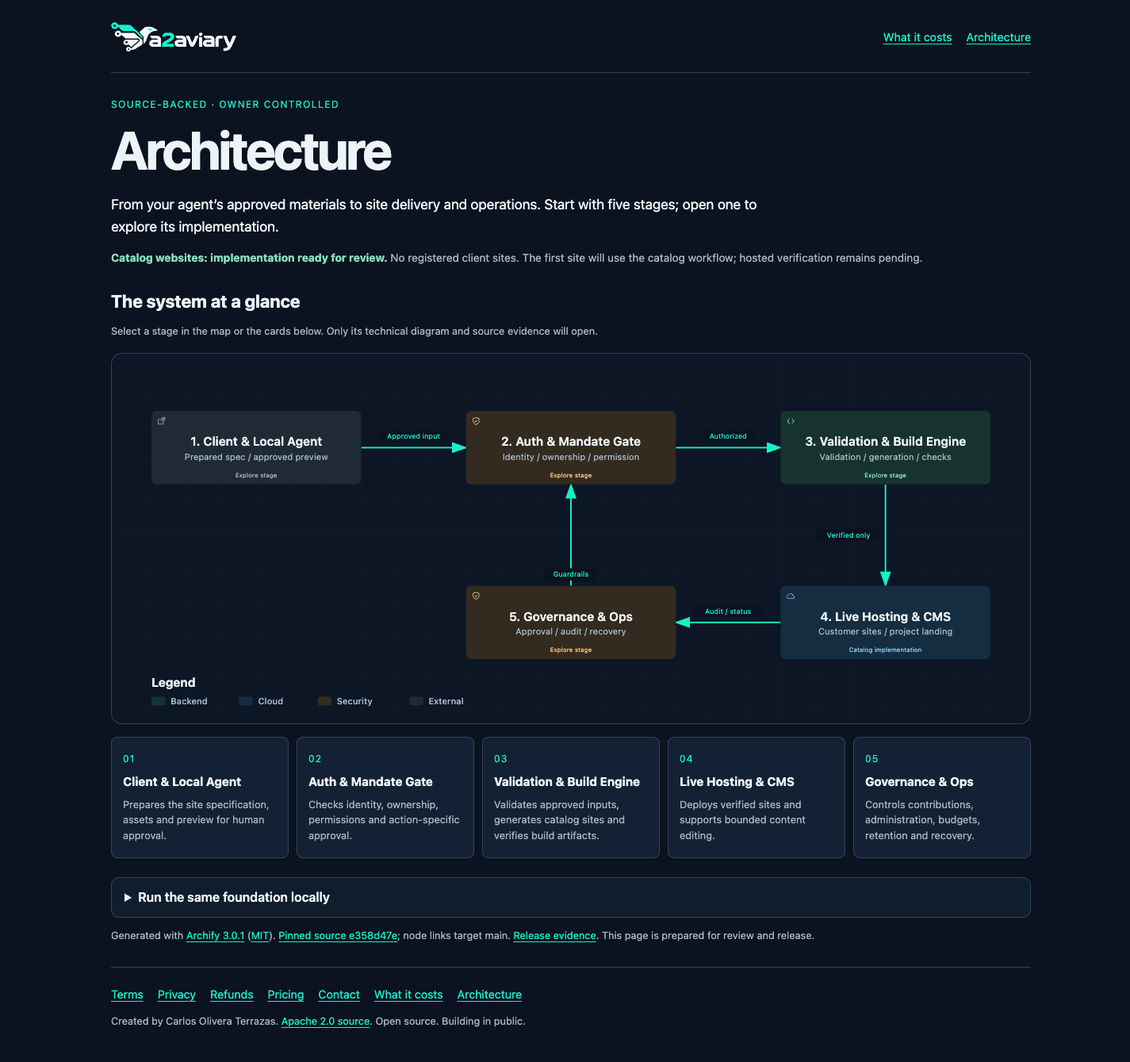
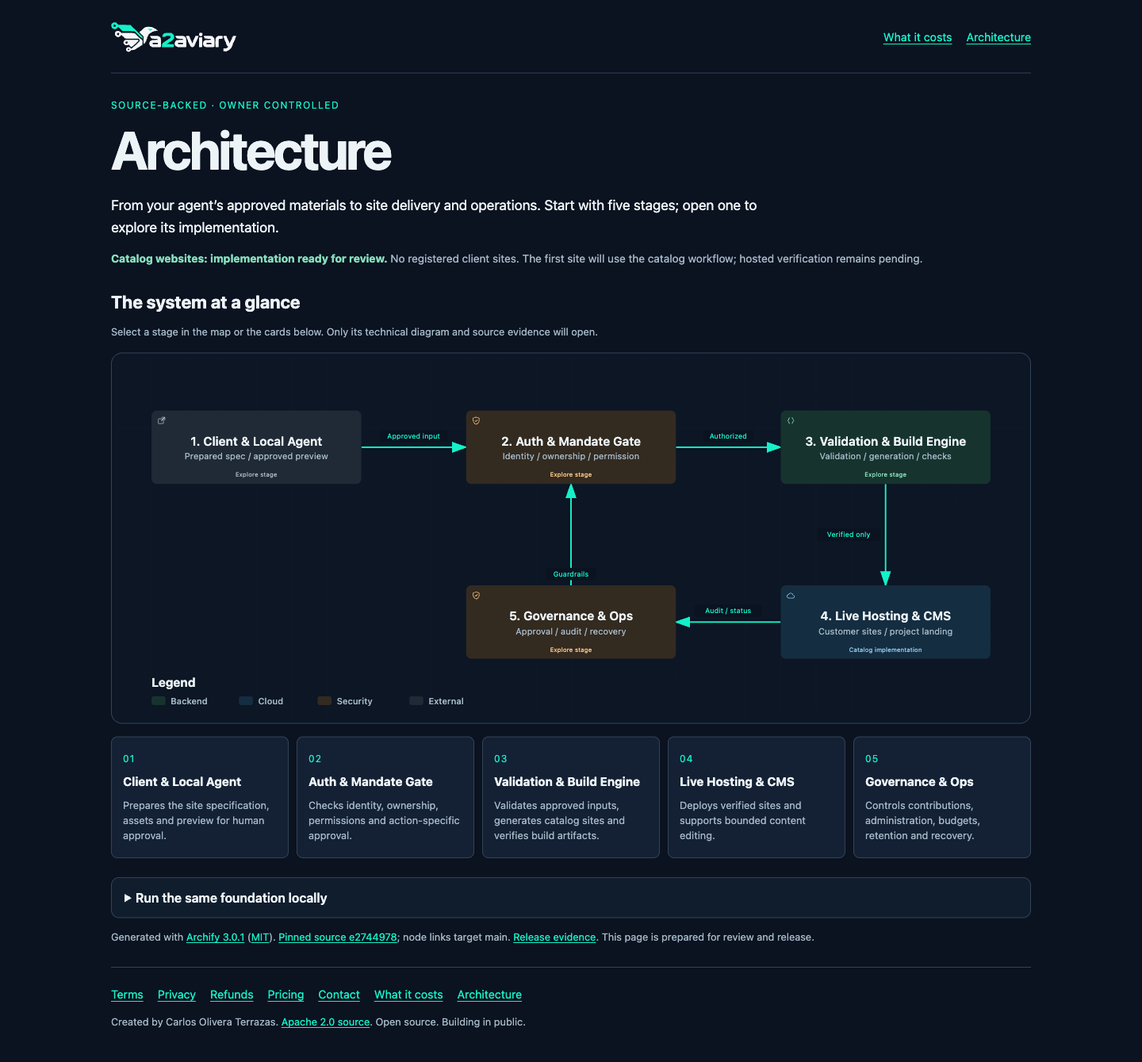
Refresh architecture provenance for verifier and CMS fixes

diff --git a/website/architecture/index.html b/website/architecture/index.html
@@ -823,7 +823,7 @@
       </svg></div><p class="stage-sources">Stage sources: <a href="https://github.com/carlos-olivera/a2aviary/blob/main/apps/platform/src/sites.ts#L158">apps/platform/src/sites.ts</a> · <a href="https://github.com/carlos-olivera/a2aviary/blob/main/packages/generator/src/render.ts#L49">packages/generator/src/render.ts</a></p><h3>Nodes and source evidence</h3><div class="node-list"><details id="detail-engine-validate" data-component="engine-validate"><summary>Spec and asset validation <span class="badge">Implemented</span></summary><p class="coverage-label">Local coverage: Separate local tooling</p><p>Catalog specifications and assets follow the fixed versioned policy, canonical hashes and bounded byte validation. Uploaded build scripts are never executed.</p><p><a href="https://github.com/carlos-olivera/a2aviary/blob/main/apps/platform/src/sites.ts#L169">apps/platform/src/sites.ts</a> · <a href="https://github.com/carlos-olivera/a2aviary/blob/main/services/src/site/validator.ts#L121">services/src/site/validator.ts</a></p></details>
 <details id="detail-engine-jobs" data-component="engine-jobs"><summary>Durable Postgres jobs <span class="badge">Implemented</span></summary><p class="coverage-label">Local coverage: Separate local tooling</p><p>Postgres persists catalog build, deploy and usage jobs, admission audits and immutable owner eligibility snapshots. Unknown deployment outcomes block replay.</p><p><a href="https://github.com/carlos-olivera/a2aviary/blob/main/apps/platform/src/sites.ts#L666">apps/platform/src/sites.ts</a> · <a href="https://github.com/carlos-olivera/a2aviary/blob/main/apps/platform/migrations/006-site-administration-billing.sql#L50">apps/platform/migrations/006-site-administration-billing.sql</a></p></details>
 <details id="detail-engine-astro" data-component="engine-astro"><summary>Astro catalog generator <span class="badge">Implemented</span></summary><p class="coverage-label">Local coverage: Separate local tooling</p><p>Deterministic rendering uses the fixed catalog and approved tokens. Prepared assets are copied byte-identically; source and output hashes bind the artifacts.</p><p><a href="https://github.com/carlos-olivera/a2aviary/blob/main/packages/generator/src/render.ts#L45">packages/generator/src/render.ts</a></p></details>
-<details id="detail-engine-verify" data-component="engine-verify"><summary>Agents verification <span class="badge">Implemented</span></summary><p class="coverage-label">Local coverage: Separate local tooling</p><p>Secret-free hosted Agents verification uses fixed trusted checkers for catalog builds, approved preview parity, accessibility, links and Lighthouse. Cloud proof remains separate.</p><p><a href="https://github.com/carlos-olivera/a2aviary/blob/main/packages/generator/src/verification.ts#L194">packages/generator/src/verification.ts</a> · <a href="https://github.com/carlos-olivera/a2aviary/blob/main/packages/generator/src/verification.ts#L68">packages/generator/src/verification.ts</a></p></details>
+<details id="detail-engine-verify" data-component="engine-verify"><summary>Agents verification <span class="badge">Implemented</span></summary><p class="coverage-label">Local coverage: Separate local tooling</p><p>Secret-free hosted Agents verification uses fixed trusted checkers for catalog builds, approved preview parity, accessibility, links and Lighthouse. Cloud proof remains separate.</p><p><a href="https://github.com/carlos-olivera/a2aviary/blob/main/packages/generator/src/verification.ts#L200">packages/generator/src/verification.ts</a> · <a href="https://github.com/carlos-olivera/a2aviary/blob/main/packages/generator/src/verification.ts#L69">packages/generator/src/verification.ts</a></p></details>
 <details id="detail-engine-artifacts" data-component="engine-artifacts"><summary>Verified artifact store <span class="badge">Implemented</span></summary><p class="coverage-label">Local coverage: Separate local tooling</p><p>The existing private artifact-bucket adapter retains catalog assets, approved previews, builds, verification reports and screenshots. Bucket activation remains separately verified.</p><p><a href="https://github.com/carlos-olivera/a2aviary/blob/main/apps/platform/src/sites.ts#L645">apps/platform/src/sites.ts</a> · <a href="https://github.com/carlos-olivera/a2aviary/blob/main/packages/generator/src/storage.ts#L14">packages/generator/src/storage.ts</a></p></details>
 <details id="detail-engine-host" data-component="engine-host"><summary>Verified deployment gate <span class="badge">Implemented</span></summary><p class="coverage-label">Local coverage: Cloud-only</p><p>Only verified bytes and a newly checked mandate reach the provider adapter. Selecting this boundary opens stage 4.</p><p><button type="button" data-stage-trigger="hosting" disabled>Explore the next stage →</button></p><p><a href="https://github.com/carlos-olivera/a2aviary/blob/main/apps/platform/src/sites.ts#L780">apps/platform/src/sites.ts</a> · <a href="https://github.com/carlos-olivera/a2aviary/blob/main/packages/generator/src/deploy.ts#L67">packages/generator/src/deploy.ts</a></p></details>
 <details id="detail-engine-receipt" data-component="engine-receipt"><summary>Legacy SES intake <span class="badge">Implemented</span></summary><p class="coverage-label">Local coverage: Adapter</p><p>The signed-email foundation follows SES receipt storage and SNS/SQS into intake. The local receipt-rule adapter executes the synthesized S3/SNS actions; it does not receive internet SMTP.</p><p><a href="https://github.com/carlos-olivera/a2aviary/blob/main/infra/src/email.ts#L23">infra/src/email.ts</a> · <a href="https://github.com/carlos-olivera/a2aviary/blob/main/services/src/intake.ts#L52">services/src/intake.ts</a></p></details>
@@ -1038,8 +1038,8 @@
       </svg></div><p class="stage-sources">Stage sources: <a href="https://github.com/carlos-olivera/a2aviary/blob/main/docs/release-verification.md#L5">docs/release-verification.md</a> · <a href="https://github.com/carlos-olivera/a2aviary/blob/main/apps/platform/src/sites.ts#L659">apps/platform/src/sites.ts</a></p><h3>Nodes and source evidence</h3><div class="node-list"><details id="detail-hosting-customer" data-component="hosting-customer"><summary>Customer websites <span class="badge">Implemented</span></summary><p class="coverage-label">Local coverage: Cloud-only</p><p>Catalog hosting is implemented and locally tested. No registered client sites exist; the first client site will use the catalog workflow. Hosted end-to-end verification remains pending.</p><p><a href="https://github.com/carlos-olivera/a2aviary/blob/main/docs/release-verification.md#L8">docs/release-verification.md</a> · <a href="https://github.com/carlos-olivera/a2aviary/blob/main/apps/platform/src/sites.ts#L780">apps/platform/src/sites.ts</a></p></details>
 <details id="detail-hosting-railway" data-component="hosting-railway"><summary>Railway site target <span class="badge">Implemented</span></summary><p class="coverage-label">Local coverage: Cloud-only</p><p>Catalog sites use dedicated guarded Railway projects, exact recorded service identifiers and protected project/domain checks. The current provider and architecture are preserved.</p><p><a href="https://github.com/carlos-olivera/a2aviary/blob/main/packages/generator/src/deploy.ts#L67">packages/generator/src/deploy.ts</a> · <a href="https://github.com/carlos-olivera/a2aviary/blob/main/packages/generator/src/deploy.ts#L57">packages/generator/src/deploy.ts</a></p></details>
 <details id="detail-hosting-caddy" data-component="hosting-caddy"><summary>Caddy site delivery <span class="badge">Implemented</span></summary><p class="coverage-label">Local coverage: Separate local tooling</p><p>Caddy serves generated catalog bytes and proxies the site PocketBase CMS under the existing route and security policy.</p><p><a href="https://github.com/carlos-olivera/a2aviary/blob/main/packages/generator/src/deploy.ts#L510">packages/generator/src/deploy.ts</a> · <a href="https://github.com/carlos-olivera/a2aviary/blob/main/packages/generator/src/deploy.ts#L528">packages/generator/src/deploy.ts</a></p></details>
-<details id="detail-hosting-cms" data-component="hosting-cms"><summary>Catalog PocketBase CMS <span class="badge">Implemented</span></summary><p class="coverage-label">Local coverage: Separate local tooling</p><p>Each catalog site uses PocketBase with constrained content editing, separate owner credentials and its existing persistent volume and backups.</p><p><a href="https://github.com/carlos-olivera/a2aviary/blob/main/packages/generator/src/pocketbase.ts#L9">packages/generator/src/pocketbase.ts</a></p></details>
-<details id="detail-hosting-editor" data-component="hosting-editor"><summary>Client content editor <span class="badge">Implemented</span></summary><p class="coverage-label">Local coverage: Separate local tooling</p><p>Content edits use the authenticated CMS editor and do not consume site-change allowance. Client account creation and privileged CMS settings are blocked.</p><p><a href="https://github.com/carlos-olivera/a2aviary/blob/main/packages/generator/src/pocketbase.ts#L62">packages/generator/src/pocketbase.ts</a></p></details>
+<details id="detail-hosting-cms" data-component="hosting-cms"><summary>Catalog PocketBase CMS <span class="badge">Implemented</span></summary><p class="coverage-label">Local coverage: Separate local tooling</p><p>Each catalog site uses PocketBase with constrained content editing, separate owner credentials and its existing persistent volume and backups.</p><p><a href="https://github.com/carlos-olivera/a2aviary/blob/main/packages/generator/src/pocketbase.ts#L9">packages/generator/src/pocketbase.ts</a> · <a href="https://github.com/carlos-olivera/a2aviary/blob/main/packages/generator/src/pocketbase.ts#L43">packages/generator/src/pocketbase.ts</a></p></details>
+<details id="detail-hosting-editor" data-component="hosting-editor"><summary>Client content editor <span class="badge">Implemented</span></summary><p class="coverage-label">Local coverage: Separate local tooling</p><p>Content edits use the authenticated CMS editor and do not consume site-change allowance. Client account creation and privileged CMS settings are blocked.</p><p><a href="https://github.com/carlos-olivera/a2aviary/blob/main/packages/generator/src/pocketbase.ts#L60">packages/generator/src/pocketbase.ts</a></p></details>
 <details id="detail-hosting-domain" data-component="hosting-domain"><summary>Domain / TLS status <span class="badge">Implemented</span></summary><p class="coverage-label">Local coverage: Cloud-only</p><p>The adapter observes deployment/domain/certificate state; DNS is not changed by the site tool. Live provider readiness remains an independent verification question.</p><p><a href="https://github.com/carlos-olivera/a2aviary/blob/main/packages/generator/src/deploy.ts#L497">packages/generator/src/deploy.ts</a></p></details>
 <details id="detail-hosting-s3" data-component="hosting-s3"><summary>Project landing S3 <span class="badge">Implemented</span></summary><p class="coverage-label">Local coverage: Local emulation</p><p>The project landing and release snapshots use private S3. The existing LocalStack quickstart serves this normal website build; it does not deploy customer Railway sites.</p><p><a href="https://github.com/carlos-olivera/a2aviary/blob/main/infra/src/app.ts#L30">infra/src/app.ts</a></p></details>
 <details id="detail-hosting-cdn" data-component="hosting-cdn"><summary>Project CloudFront <span class="badge">Implemented</span></summary><p class="coverage-label">Local coverage: Cloud-only</p><p>CloudFront delivers the project landing with origin access control, cache and security headers. Public TLS/DNS and cloud caching are outside LocalStack.</p><p><a href="https://github.com/carlos-olivera/a2aviary/blob/main/infra/src/app.ts#L47">infra/src/app.ts</a></p></details></div></div></template>
@@ -1966,7 +1966,7 @@
       </svg></div><p class="stage-sources">Stage sources: <a href="https://github.com/carlos-olivera/a2aviary/blob/main/apps/platform/src/sites.ts#L158">apps/platform/src/sites.ts</a> · <a href="https://github.com/carlos-olivera/a2aviary/blob/main/packages/generator/src/render.ts#L49">packages/generator/src/render.ts</a></p><h3>Nodes and source evidence</h3><div class="node-list"><details id="detail-engine-validate" data-component="engine-validate"><summary>Spec and asset validation <span class="badge">Implemented</span></summary><p class="coverage-label">Local coverage: Separate local tooling</p><p>Catalog specifications and assets follow the fixed versioned policy, canonical hashes and bounded byte validation. Uploaded build scripts are never executed.</p><p><a href="https://github.com/carlos-olivera/a2aviary/blob/main/apps/platform/src/sites.ts#L169">apps/platform/src/sites.ts</a> · <a href="https://github.com/carlos-olivera/a2aviary/blob/main/services/src/site/validator.ts#L121">services/src/site/validator.ts</a></p></details>
 <details id="detail-engine-jobs" data-component="engine-jobs"><summary>Durable Postgres jobs <span class="badge">Implemented</span></summary><p class="coverage-label">Local coverage: Separate local tooling</p><p>Postgres persists catalog build, deploy and usage jobs, admission audits and immutable owner eligibility snapshots. Unknown deployment outcomes block replay.</p><p><a href="https://github.com/carlos-olivera/a2aviary/blob/main/apps/platform/src/sites.ts#L666">apps/platform/src/sites.ts</a> · <a href="https://github.com/carlos-olivera/a2aviary/blob/main/apps/platform/migrations/006-site-administration-billing.sql#L50">apps/platform/migrations/006-site-administration-billing.sql</a></p></details>
 <details id="detail-engine-astro" data-component="engine-astro"><summary>Astro catalog generator <span class="badge">Implemented</span></summary><p class="coverage-label">Local coverage: Separate local tooling</p><p>Deterministic rendering uses the fixed catalog and approved tokens. Prepared assets are copied byte-identically; source and output hashes bind the artifacts.</p><p><a href="https://github.com/carlos-olivera/a2aviary/blob/main/packages/generator/src/render.ts#L45">packages/generator/src/render.ts</a></p></details>
-<details id="detail-engine-verify" data-component="engine-verify"><summary>Agents verification <span class="badge">Implemented</span></summary><p class="coverage-label">Local coverage: Separate local tooling</p><p>Secret-free hosted Agents verification uses fixed trusted checkers for catalog builds, approved preview parity, accessibility, links and Lighthouse. Cloud proof remains separate.</p><p><a href="https://github.com/carlos-olivera/a2aviary/blob/main/packages/generator/src/verification.ts#L194">packages/generator/src/verification.ts</a> · <a href="https://github.com/carlos-olivera/a2aviary/blob/main/packages/generator/src/verification.ts#L68">packages/generator/src/verification.ts</a></p></details>
+<details id="detail-engine-verify" data-component="engine-verify"><summary>Agents verification <span class="badge">Implemented</span></summary><p class="coverage-label">Local coverage: Separate local tooling</p><p>Secret-free hosted Agents verification uses fixed trusted checkers for catalog builds, approved preview parity, accessibility, links and Lighthouse. Cloud proof remains separate.</p><p><a href="https://github.com/carlos-olivera/a2aviary/blob/main/packages/generator/src/verification.ts#L200">packages/generator/src/verification.ts</a> · <a href="https://github.com/carlos-olivera/a2aviary/blob/main/packages/generator/src/verification.ts#L69">packages/generator/src/verification.ts</a></p></details>
 <details id="detail-engine-artifacts" data-component="engine-artifacts"><summary>Verified artifact store <span class="badge">Implemented</span></summary><p class="coverage-label">Local coverage: Separate local tooling</p><p>The existing private artifact-bucket adapter retains catalog assets, approved previews, builds, verification reports and screenshots. Bucket activation remains separately verified.</p><p><a href="https://github.com/carlos-olivera/a2aviary/blob/main/apps/platform/src/sites.ts#L645">apps/platform/src/sites.ts</a> · <a href="https://github.com/carlos-olivera/a2aviary/blob/main/packages/generator/src/storage.ts#L14">packages/generator/src/storage.ts</a></p></details>
 <details id="detail-engine-host" data-component="engine-host"><summary>Verified deployment gate <span class="badge">Implemented</span></summary><p class="coverage-label">Local coverage: Cloud-only</p><p>Only verified bytes and a newly checked mandate reach the provider adapter. Selecting this boundary opens stage 4.</p><p><button type="button" data-stage-trigger="hosting" disabled>Explore the next stage →</button></p><p><a href="https://github.com/carlos-olivera/a2aviary/blob/main/apps/platform/src/sites.ts#L780">apps/platform/src/sites.ts</a> · <a href="https://github.com/carlos-olivera/a2aviary/blob/main/packages/generator/src/deploy.ts#L67">packages/generator/src/deploy.ts</a></p></details>
 <details id="detail-engine-receipt" data-component="engine-receipt"><summary>Legacy SES intake <span class="badge">Implemented</span></summary><p class="coverage-label">Local coverage: Adapter</p><p>The signed-email foundation follows SES receipt storage and SNS/SQS into intake. The local receipt-rule adapter executes the synthesized S3/SNS actions; it does not receive internet SMTP.</p><p><a href="https://github.com/carlos-olivera/a2aviary/blob/main/infra/src/email.ts#L23">infra/src/email.ts</a> · <a href="https://github.com/carlos-olivera/a2aviary/blob/main/services/src/intake.ts#L52">services/src/intake.ts</a></p></details>
@@ -2181,8 +2181,8 @@
       </svg></div><p class="stage-sources">Stage sources: <a href="https://github.com/carlos-olivera/a2aviary/blob/main/docs/release-verification.md#L5">docs/release-verification.md</a> · <a href="https://github.com/carlos-olivera/a2aviary/blob/main/apps/platform/src/sites.ts#L659">apps/platform/src/sites.ts</a></p><h3>Nodes and source evidence</h3><div class="node-list"><details id="detail-hosting-customer" data-component="hosting-customer"><summary>Customer websites <span class="badge">Implemented</span></summary><p class="coverage-label">Local coverage: Cloud-only</p><p>Catalog hosting is implemented and locally tested. No registered client sites exist; the first client site will use the catalog workflow. Hosted end-to-end verification remains pending.</p><p><a href="https://github.com/carlos-olivera/a2aviary/blob/main/docs/release-verification.md#L8">docs/release-verification.md</a> · <a href="https://github.com/carlos-olivera/a2aviary/blob/main/apps/platform/src/sites.ts#L780">apps/platform/src/sites.ts</a></p></details>
 <details id="detail-hosting-railway" data-component="hosting-railway"><summary>Railway site target <span class="badge">Implemented</span></summary><p class="coverage-label">Local coverage: Cloud-only</p><p>Catalog sites use dedicated guarded Railway projects, exact recorded service identifiers and protected project/domain checks. The current provider and architecture are preserved.</p><p><a href="https://github.com/carlos-olivera/a2aviary/blob/main/packages/generator/src/deploy.ts#L67">packages/generator/src/deploy.ts</a> · <a href="https://github.com/carlos-olivera/a2aviary/blob/main/packages/generator/src/deploy.ts#L57">packages/generator/src/deploy.ts</a></p></details>
 <details id="detail-hosting-caddy" data-component="hosting-caddy"><summary>Caddy site delivery <span class="badge">Implemented</span></summary><p class="coverage-label">Local coverage: Separate local tooling</p><p>Caddy serves generated catalog bytes and proxies the site PocketBase CMS under the existing route and security policy.</p><p><a href="https://github.com/carlos-olivera/a2aviary/blob/main/packages/generator/src/deploy.ts#L510">packages/generator/src/deploy.ts</a> · <a href="https://github.com/carlos-olivera/a2aviary/blob/main/packages/generator/src/deploy.ts#L528">packages/generator/src/deploy.ts</a></p></details>
-<details id="detail-hosting-cms" data-component="hosting-cms"><summary>Catalog PocketBase CMS <span class="badge">Implemented</span></summary><p class="coverage-label">Local coverage: Separate local tooling</p><p>Each catalog site uses PocketBase with constrained content editing, separate owner credentials and its existing persistent volume and backups.</p><p><a href="https://github.com/carlos-olivera/a2aviary/blob/main/packages/generator/src/pocketbase.ts#L9">packages/generator/src/pocketbase.ts</a></p></details>
-<details id="detail-hosting-editor" data-component="hosting-editor"><summary>Client content editor <span class="badge">Implemented</span></summary><p class="coverage-label">Local coverage: Separate local tooling</p><p>Content edits use the authenticated CMS editor and do not consume site-change allowance. Client account creation and privileged CMS settings are blocked.</p><p><a href="https://github.com/carlos-olivera/a2aviary/blob/main/packages/generator/src/pocketbase.ts#L62">packages/generator/src/pocketbase.ts</a></p></details>
+<details id="detail-hosting-cms" data-component="hosting-cms"><summary>Catalog PocketBase CMS <span class="badge">Implemented</span></summary><p class="coverage-label">Local coverage: Separate local tooling</p><p>Each catalog site uses PocketBase with constrained content editing, separate owner credentials and its existing persistent volume and backups.</p><p><a href="https://github.com/carlos-olivera/a2aviary/blob/main/packages/generator/src/pocketbase.ts#L9">packages/generator/src/pocketbase.ts</a> · <a href="https://github.com/carlos-olivera/a2aviary/blob/main/packages/generator/src/pocketbase.ts#L43">packages/generator/src/pocketbase.ts</a></p></details>
+<details id="detail-hosting-editor" data-component="hosting-editor"><summary>Client content editor <span class="badge">Implemented</span></summary><p class="coverage-label">Local coverage: Separate local tooling</p><p>Content edits use the authenticated CMS editor and do not consume site-change allowance. Client account creation and privileged CMS settings are blocked.</p><p><a href="https://github.com/carlos-olivera/a2aviary/blob/main/packages/generator/src/pocketbase.ts#L60">packages/generator/src/pocketbase.ts</a></p></details>
 <details id="detail-hosting-domain" data-component="hosting-domain"><summary>Domain / TLS status <span class="badge">Implemented</span></summary><p class="coverage-label">Local coverage: Cloud-only</p><p>The adapter observes deployment/domain/certificate state; DNS is not changed by the site tool. Live provider readiness remains an independent verification question.</p><p><a href="https://github.com/carlos-olivera/a2aviary/blob/main/packages/generator/src/deploy.ts#L497">packages/generator/src/deploy.ts</a></p></details>
 <details id="detail-hosting-s3" data-component="hosting-s3"><summary>Project landing S3 <span class="badge">Implemented</span></summary><p class="coverage-label">Local coverage: Local emulation</p><p>The project landing and release snapshots use private S3. The existing LocalStack quickstart serves this normal website build; it does not deploy customer Railway sites.</p><p><a href="https://github.com/carlos-olivera/a2aviary/blob/main/infra/src/app.ts#L30">infra/src/app.ts</a></p></details>
 <details id="detail-hosting-cdn" data-component="hosting-cdn"><summary>Project CloudFront <span class="badge">Implemented</span></summary><p class="coverage-label">Local coverage: Cloud-only</p><p>CloudFront delivers the project landing with origin access control, cache and security headers. Public TLS/DNS and cloud caching are outside LocalStack.</p><p><a href="https://github.com/carlos-olivera/a2aviary/blob/main/infra/src/app.ts#L47">infra/src/app.ts</a></p></details></div></div></details>
@@ -2468,5 +2468,5 @@
 <details class="local-setup" id="local-setup"><summary>Run the same foundation locally</summary><p>With Docker and Node.js 22, run <code>npm --prefix infra run local:quickstart</code>. The LocalStack environment runs the AWS signed-email foundation and serves the normal project website build.</p><p>The auth/MCP platform, Astro generator and PocketBase/Caddy have <strong>separate local tooling</strong>; they are not started by this LocalStack quickstart. See <a href="https://github.com/carlos-olivera/a2aviary/blob/main/docs/platform.md">platform setup</a> and <a href="https://github.com/carlos-olivera/a2aviary/blob/main/docs/sites.md">site/CMS checks</a>.</p>
 <ul class="legend"><li><strong>Local emulation</strong> — shared AWS resources/workers</li><li><strong>Mock</strong> — fixed external-service responses</li><li><strong>Adapter</strong> — explicit protocol boundary</li><li><strong>Separate local tooling</strong> — not in this quickstart</li><li><strong>Cloud-only</strong> — skipped by this local setup</li><li><strong>Planned</strong> — future customer products</li></ul>
 <p>CloudFront, public DNS/TLS, production OIDC, provider hosting, AWS billing budgets, real mailbox delivery and owner notifications are cloud-only here. A local pass does not establish production delivery or IAM enforcement. TTL/lifecycle expiration is asynchronous; billing notifications are not hard spending caps.</p><p><a href="https://github.com/carlos-olivera/a2aviary/blob/main/docs/local-development.md">Quickstart, cleanup, coverage and troubleshooting →</a></p></details>
-<p class="map-credit">Generated with <a href="https://github.com/tt-a1i/archify">Archify 3.0.1</a> (<a href="/licenses/archify-MIT.txt">MIT</a>). <a href="https://github.com/carlos-olivera/a2aviary/tree/e358d47ed088d9f89aaf484feb4ecb0de8d69500">Pinned source e358d47e</a>; node links target main. <a href="https://github.com/carlos-olivera/a2aviary/blob/main/docs/release-verification.md">Release evidence</a>. This page is prepared for review and release.</p>
+<p class="map-credit">Generated with <a href="https://github.com/tt-a1i/archify">Archify 3.0.1</a> (<a href="/licenses/archify-MIT.txt">MIT</a>). <a href="https://github.com/carlos-olivera/a2aviary/tree/e274497893afe84eb5897f1c7843338fd7b8bd4f">Pinned source e2744978</a>; node links target main. <a href="https://github.com/carlos-olivera/a2aviary/blob/main/docs/release-verification.md">Release evidence</a>. This page is prepared for review and release.</p>
 </main><footer><nav class="policy-links" aria-label="Policies and contact"><a href="/terms">Terms</a><a href="/privacy">Privacy</a><a href="/refunds">Refunds</a><a href="/pricing">Pricing</a><a href="/#contact">Contact</a><a href="/costs">What it costs</a><a href="/architecture">Architecture</a></nav><p>Created by Carlos Olivera Terrazas. <a href="https://github.com/carlos-olivera/a2aviary/blob/main/LICENSE">Apache 2.0 source</a>. Open source. Building in public.</p></footer></div></body></html>

diff --git a/CHANGELOG.md b/CHANGELOG.md
@@ -1,5 +1,10 @@
 # Changelog
 
+## 2026-10-08 — architecture freshness restored for verifier delivery
+
+- Regenerated all six Archify drawings and integrated provenance against the committed verifier/CMS fixes, with corrected source ranges and refreshed desktop/mobile evidence. The source freshness check remains enforced; the five-stage architecture and runtime behavior are unchanged.
+- Node.js 22.23.3 passed the complete CI command sequence: website check/build, service check/build with 113 tests, and infrastructure build with nine tests. Every drawing passed all four finalization gates; the integrated browser suite passed all five stages and 44 technical nodes, keyboard/focus behavior, mobile layout, JavaScript-free access and same-origin CSP checks.
+
 ## 2026-10-08 — PocketBase runtime volume ownership verified locally
 
 - Start the pinned CMS image as root, change ownership only of `/pb/pb_data` to UID/GID 1000, then exec PocketBase through `su-exec` as that user. PocketBase/Alpine pins, download checksums and serve flags are unchanged; no runtime UID variable is added.
